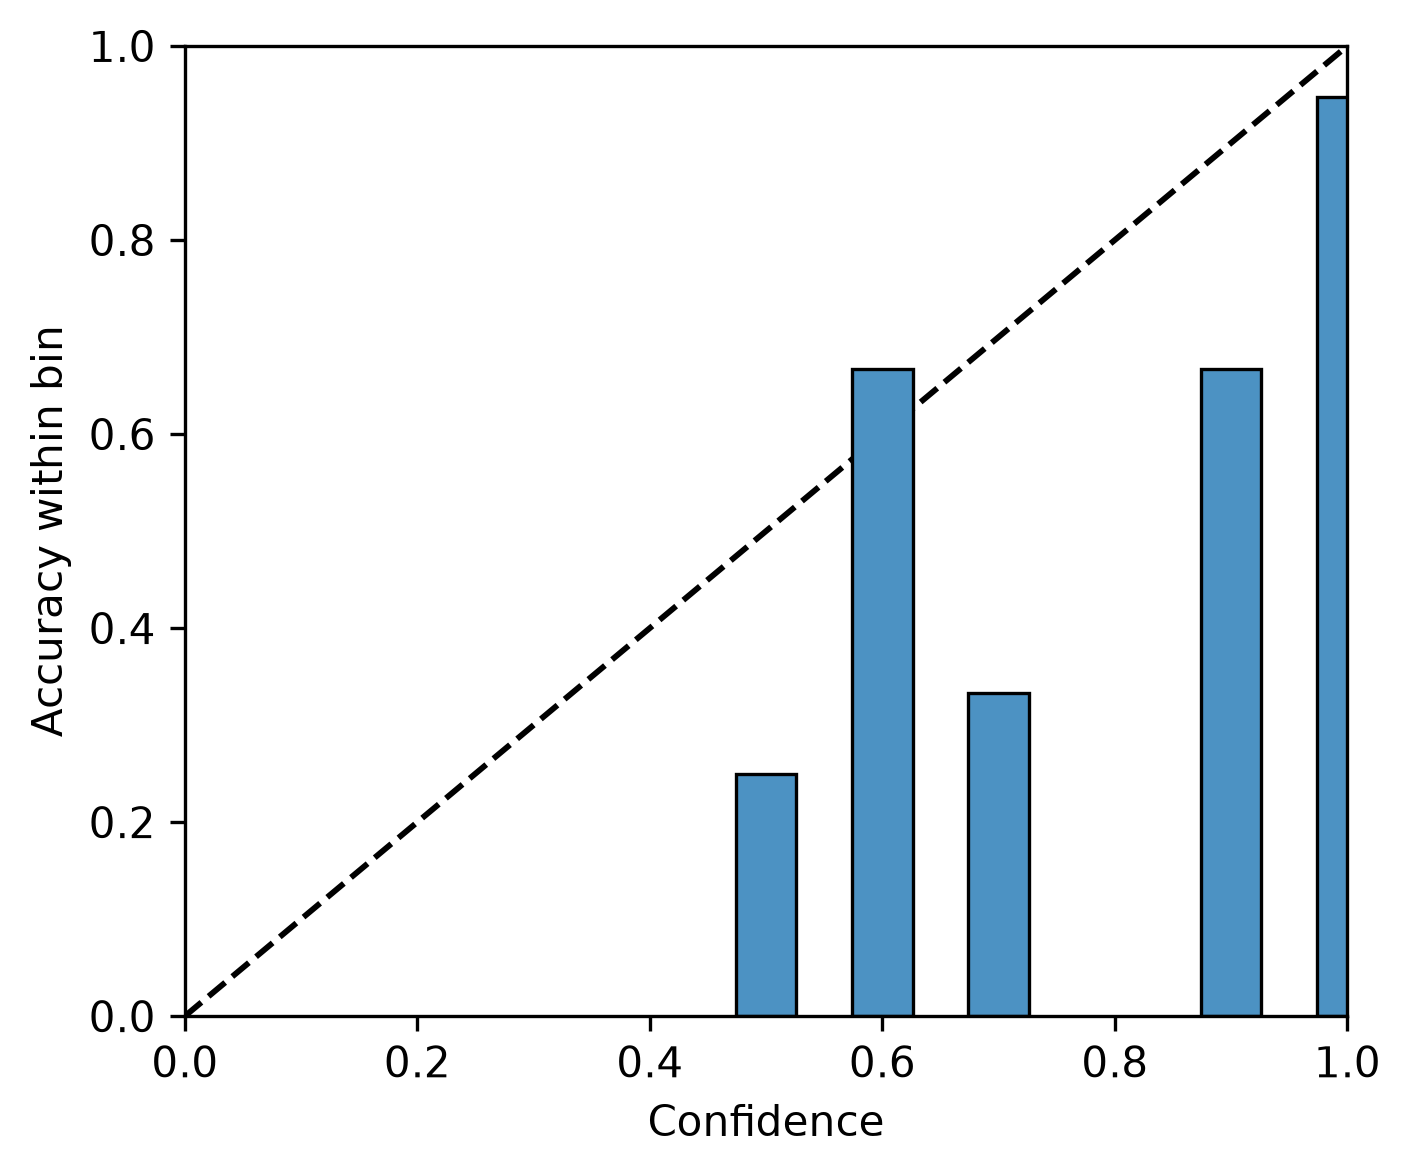
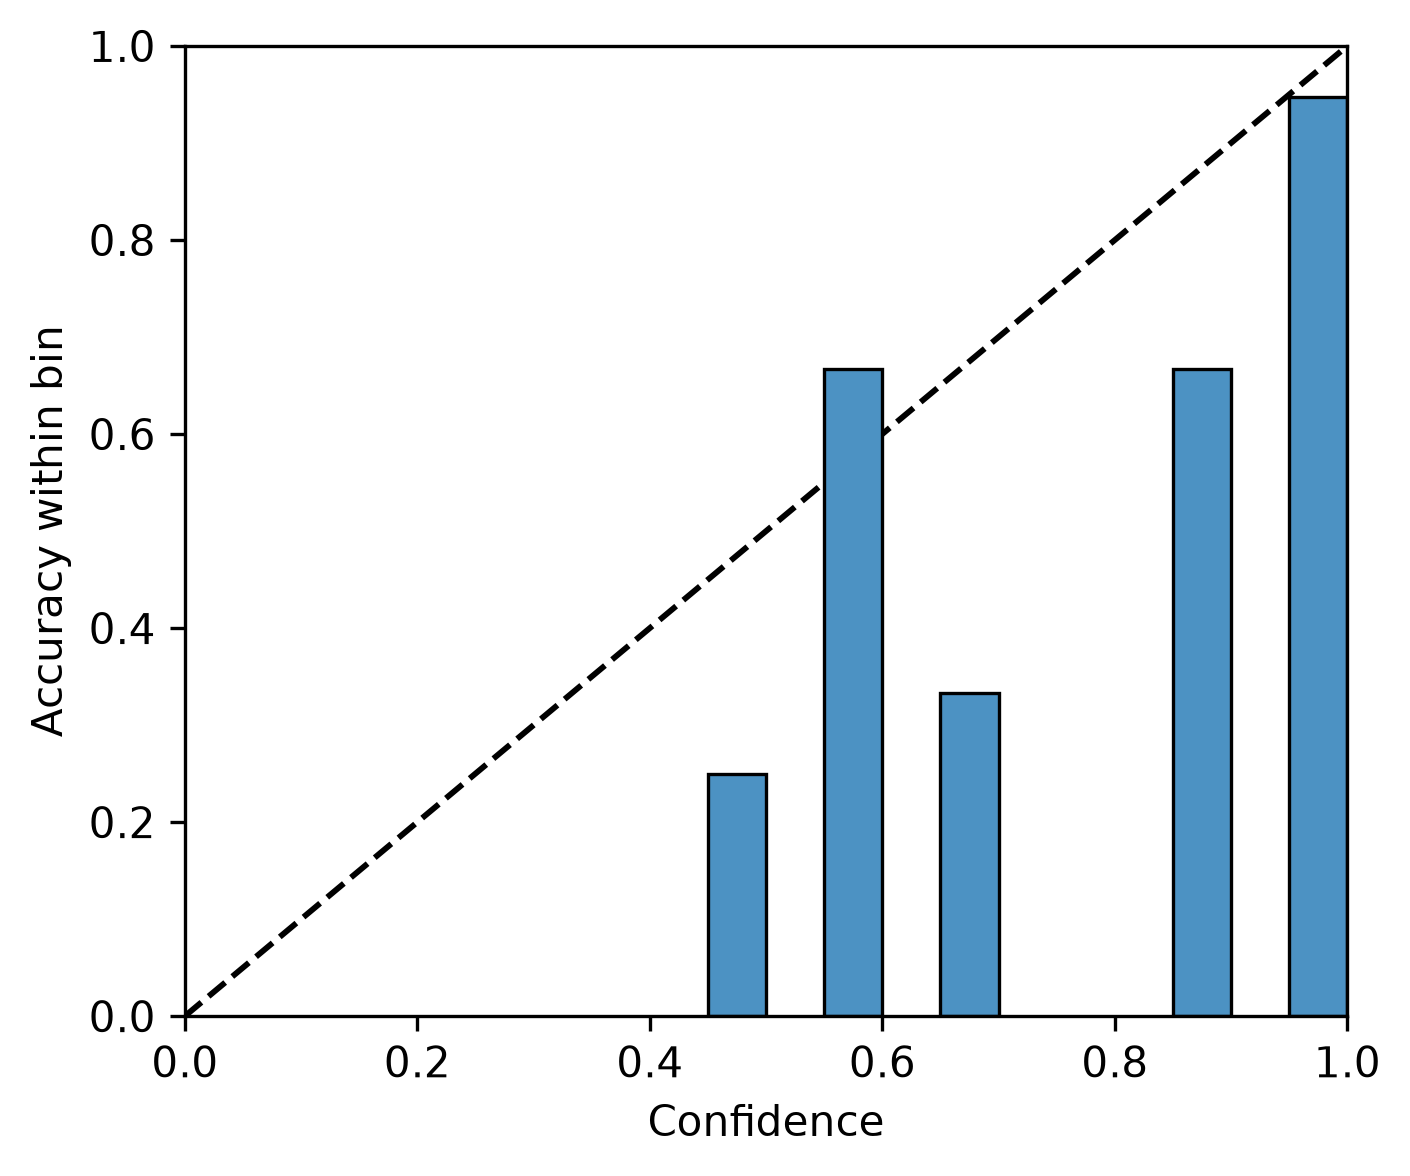
feat(visualize): update figures

Changed region(s): [[0.4993, 0.3061, 0.7489, 0.8878], [0.8113, 0.0612, 0.9362, 0.8878]]

diff --git a/evaluate_all_to_excel.py b/evaluate_all_to_excel.py
@@ -6,6 +6,8 @@ import json
 import re
 import subprocess
 import sys
+import math
+import statistics
 from collections import Counter
 from datetime import datetime
 from pathlib import Path
@@ -67,7 +69,18 @@ def parse_args():
     )
     parser.add_argument(
         "--time-flag",
-        help="Result filename suffix such as 0713. Auto-detected when omitted.",
+        help="Backward-compatible single result suffix; overrides --time-flags.",
+    )
+    parser.add_argument(
+        "--time-flags",
+        default="0713,0716,0718",
+        help="Comma-separated independent run suffixes (default: 0713,0716,0718).",
+    )
+    parser.add_argument(
+        "--interval",
+        choices=["std", "ci95"],
+        default="std",
+        help="Radius after ±: sample standard deviation (std) or 95%% CI half-width.",
     )
     parser.add_argument(
         "--output",
@@ -193,6 +206,8 @@ def run_evaluations(result_dir, time_flag, log_dir, task_exclusions):
                 "--time_flag",
                 time_flag,
             ]
+            for dataset, index in sorted(task_exclusions.get(task, set())):
+                command.extend(["--exclude-sample", f"{dataset}:{index}"])
             completed = subprocess.run(
                 command,
                 cwd=PROJECT_DIR,
@@ -222,6 +237,7 @@ def run_evaluations(result_dir, time_flag, log_dir, task_exclusions):
             results.append(
                 {
                     "task": task,
+                    "time_flag": time_flag,
                     "method": method,
                     "label": label,
                     "sample_size": effective_size,
@@ -238,6 +254,7 @@ def run_evaluations(result_dir, time_flag, log_dir, task_exclusions):
                     agent_results.append(
                         {
                             "task": task,
+                            "time_flag": time_flag,
                             "method": method,
                             "label": label,
                             "sample_size": effective_size,
@@ -245,6 +262,31 @@ def run_evaluations(result_dir, time_flag, log_dir, task_exclusions):
                         }
                     )
     return results, agent_results
+
+
+def aggregate_results(results, interval):
+    grouped = {}
+    for row in results:
+        grouped.setdefault((row["method"], row["task"]), []).append(row)
+    aggregated = []
+    for (method, task), rows in grouped.items():
+        accuracies = [row["accuracy"] for row in rows]
+        mean = statistics.mean(accuracies)
+        std = statistics.stdev(accuracies) if len(accuracies) > 1 else 0.0
+        radius = std if interval == "std" else 4.3026527299 * std / math.sqrt(len(rows))
+        aggregated.append(
+            {
+                "task": task,
+                "method": method,
+                "label": rows[0]["label"],
+                "sample_size": rows[0]["sample_size"],
+                "runs": len(rows),
+                "mean_accuracy": mean,
+                "radius": radius,
+                "run_accuracies": accuracies,
+            }
+        )
+    return aggregated
 
 
 def style_table(ws, header_row, min_col, max_col, max_row):
@@ -280,16 +322,20 @@ def autosize(ws, caps=None):
         ws.column_dimensions[letter].width = min(max(width + 2, 10), caps.get(letter, 45))
 
 
-def build_workbook(results, agent_results, result_dir, time_flag, output_path):
+def build_workbook(results, aggregated, agent_results, result_dir, time_flags, interval, output_path):
     wb = Workbook()
     summary = wb.active
     summary.title = "Paper Table"
     summary.sheet_view.showGridLines = False
     tasks = list(TASK_SIZES)
-    lookup = {(row["method"], row["task"]): row for row in results}
+    lookup = {(row["method"], row["task"]): row for row in aggregated}
     summary.append(["", "GSM8K", "SVAMP", "AQuA", "MultiArith", "AddSub", "SingleEq", "ARC-c", "StrategyQA", "Colored Objects", "Penguins"])
     for label, method in PAPER_ROWS:
-        values = [lookup[(method, task)]["accuracy"] * 100 for task in tasks]
+        values = [
+            f'{lookup[(method, task)]["mean_accuracy"] * 100:.2f} ± '
+            f'{lookup[(method, task)]["radius"] * 100:.2f}'
+            for task in tasks
+        ]
         summary.append([label, *values])
     summary.freeze_panes = "B2"
     summary.column_dimensions["A"].width = 28
@@ -298,7 +344,6 @@ def build_workbook(results, agent_results, result_dir, time_flag, output_path):
     summary.column_dimensions["J"].width = 17
     for row in summary.iter_rows(min_row=2, max_row=summary.max_row, min_col=2, max_col=11):
         for cell in row:
-            cell.number_format = "0.00"
             cell.alignment = Alignment(horizontal="center")
     for row in summary.iter_rows(min_row=1, max_row=summary.max_row, min_col=1, max_col=11):
         for cell in row:
@@ -316,6 +361,7 @@ def build_workbook(results, agent_results, result_dir, time_flag, output_path):
     detail.sheet_view.showGridLines = False
     headers = [
         "Dataset",
+        "Run",
         "Method",
         "Method Label",
         "Samples",
@@ -330,6 +376,7 @@ def build_workbook(results, agent_results, result_dir, time_flag, output_path):
         detail.append(
             [
                 row["task"],
+                row["time_flag"],
                 row["method"],
                 row["label"],
                 row["sample_size"],
@@ -343,19 +390,33 @@ def build_workbook(results, agent_results, result_dir, time_flag, output_path):
     style_table(detail, 1, 1, len(headers), detail.max_row)
     detail.freeze_panes = "A2"
     detail.auto_filter.ref = detail.dimensions
-    for row in detail.iter_rows(min_row=2, min_col=5, max_col=6):
+    for row in detail.iter_rows(min_row=2, min_col=6, max_col=7):
         for cell in row:
             cell.number_format = "0.00%"
-    autosize(detail, {"C": 28, "G": 60, "H": 55, "I": 80})
+    autosize(detail, {"D": 28, "H": 60, "I": 55, "J": 80})
+
+    aggregate = wb.create_sheet("Aggregate Results")
+    aggregate_headers = ["Dataset", "Method", "Method Label", "Samples", "Runs", "Mean Accuracy", "Radius", "Interval"]
+    aggregate.append(aggregate_headers)
+    for row in aggregated:
+        aggregate.append([row["task"], row["method"], row["label"], row["sample_size"], row["runs"], row["mean_accuracy"], row["radius"], interval])
+    style_table(aggregate, 1, 1, len(aggregate_headers), aggregate.max_row)
+    for row in aggregate.iter_rows(min_row=2, min_col=6, max_col=7):
+        for cell in row:
+            cell.number_format = "0.00%"
+    aggregate.freeze_panes = "A2"
+    aggregate.auto_filter.ref = aggregate.dimensions
+    autosize(aggregate, {"C": 28})
 
     agents = wb.create_sheet("Agent Details")
     agents.sheet_view.showGridLines = False
-    agent_headers = ["Dataset", "Method", "Method Label", "Samples", "Agent", "Accuracy", "SEM"]
+    agent_headers = ["Dataset", "Run", "Method", "Method Label", "Samples", "Agent", "Accuracy", "SEM"]
     agents.append(agent_headers)
     for row in agent_results:
         agents.append(
             [
                 row["task"],
+                row["time_flag"],
                 row["method"],
                 row["label"],
                 row["sample_size"],
@@ -367,7 +428,7 @@ def build_workbook(results, agent_results, result_dir, time_flag, output_path):
     style_table(agents, 1, 1, len(agent_headers), agents.max_row)
     agents.freeze_panes = "A2"
     agents.auto_filter.ref = agents.dimensions
-    for row in agents.iter_rows(min_row=2, min_col=6, max_col=7):
+    for row in agents.iter_rows(min_row=2, min_col=7, max_col=8):
         for cell in row:
             cell.number_format = "0.00%"
     autosize(agents, {"C": 28})
@@ -378,14 +439,15 @@ def build_workbook(results, agent_results, result_dir, time_flag, output_path):
     readme_rows = [
         ("Generated", datetime.now().astimezone().isoformat(timespec="seconds")),
         ("Result directory", str(result_dir)),
-        ("Time flag", time_flag),
+        ("Time flags", ", ".join(time_flags)),
+        ("Aggregation", f"Mean across {len(time_flags)} independent runs; ± radius uses {interval}."),
         ("Evaluator", str(PROJECT_DIR / "eval.py")),
         ("Evaluation count", len(results)),
         ("Source JSON count", len({row["source_file"] for row in results})),
         ("Majority", "Reuses each dataset's single_agent JSON; no separate generation file."),
         ("Accuracy", "Fraction of correctly evaluated examples."),
         ("SEM", "Population standard deviation divided by sqrt(number of examples), as implemented in eval.py."),
-        ("Paper Table", "Dataset header row plus method rows. Scores are 0-100 numeric values without percent formatting."),
+        ("Paper Table", "Dataset header row plus method rows. Each cell is mean ± radius on the 0-100 scale, without a percent sign."),
         ("Ours (w/o solution)", "Revision receives peer feedback but Stage-2 peer-solution dialogue is removed."),
     ]
     for item in readme_rows:
@@ -403,7 +465,7 @@ def build_workbook(results, agent_results, result_dir, time_flag, output_path):
 
 def verify_workbook(output_path, expected_results):
     wb = load_workbook(output_path, data_only=False, read_only=True)
-    required = {"Paper Table", "Evaluation Results", "Agent Details", "README"}
+    required = {"Paper Table", "Evaluation Results", "Aggregate Results", "Agent Details", "README"}
     if set(wb.sheetnames) != required:
         raise RuntimeError(f"Unexpected workbook sheets: {wb.sheetnames}")
     if wb["Evaluation Results"].max_row != expected_results + 1:
@@ -417,31 +479,47 @@ def verify_workbook(output_path, expected_results):
         raise RuntimeError("Paper table dataset header order verification failed")
     if paper["A2"].value != "Zero-shot CoT" or paper["A8"].value != "Ours (w/o solution)":
         raise RuntimeError("Paper table method labels verification failed")
-    if paper["B2"].value is None or paper["B2"].value <= 1:
-        raise RuntimeError("Paper table scores were not converted to the 0-100 scale")
-    if paper["B8"].value is None or paper["B8"].value <= 1:
-        raise RuntimeError("Ours (w/o solution) score is missing or not on the 0-100 scale")
+    if " ± " not in str(paper["B2"].value) or " ± " not in str(paper["B8"].value):
+        raise RuntimeError("Paper table cells are not formatted as mean ± radius")
     wb.close()
 
 
 def main():
     args = parse_args()
     result_dir = args.result_dir.resolve()
-    time_flag = args.time_flag or detect_time_flag(result_dir)
+    time_flags = [args.time_flag] if args.time_flag else [
+        value.strip() for value in args.time_flags.split(",") if value.strip()
+    ]
+    if not time_flags:
+        raise RuntimeError("No time flags selected")
+    if len(set(time_flags)) != len(time_flags):
+        raise RuntimeError(f"Duplicate time flags: {time_flags}")
+    flag_label = "-".join(time_flags)
     output_path = (
         args.output.resolve()
         if args.output
-        else result_dir / f"evaluation_{result_dir.name}_{time_flag}.xlsx"
+        else result_dir / f"evaluation_{result_dir.name}_{flag_label}.xlsx"
     )
     log_dir = (
-        args.log_dir.resolve() if args.log_dir else result_dir / "eval_logs" / time_flag
+        args.log_dir.resolve() if args.log_dir else result_dir / "eval_logs" / flag_label
     )
 
-    task_exclusions = validate_inputs(result_dir, time_flag)
-    results, agent_results = run_evaluations(
-        result_dir, time_flag, log_dir, task_exclusions
-    )
-    build_workbook(results, agent_results, result_dir, time_flag, output_path)
+    exclusions_by_flag = {
+        flag: validate_inputs(result_dir, flag) for flag in time_flags
+    }
+    shared_exclusions = {
+        task: set().union(*(exclusions_by_flag[flag].get(task, set()) for flag in time_flags))
+        for task in TASK_SIZES
+    }
+    results, agent_results = [], []
+    for flag in time_flags:
+        run_results, run_agents = run_evaluations(
+            result_dir, flag, log_dir, shared_exclusions
+        )
+        results.extend(run_results)
+        agent_results.extend(run_agents)
+    aggregated = aggregate_results(results, args.interval)
+    build_workbook(results, aggregated, agent_results, result_dir, time_flags, args.interval, output_path)
     verify_workbook(output_path, len(results))
     print(f"Excel report: {output_path}")
 

diff --git a/sample_filter.py b/sample_filter.py
@@ -88,9 +88,15 @@ def append_excluded_record_if_needed(
     return True
 
 
-def filter_evaluation_rows(rows):
-    included = [row for row in rows if not row.get("excluded", False)]
-    excluded = [row for row in rows if row.get("excluded", False)]
+def filter_evaluation_rows(rows, exclusions=None, dataset=None):
+    """Filter stored placeholders and optional dataset/index exclusions."""
+    exclusions = exclusions or set()
+    included, excluded = [], []
+    for one_based_index, row in enumerate(rows, start=1):
+        should_exclude = row.get("excluded", False) or (
+            dataset is not None and (dataset, one_based_index) in exclusions
+        )
+        (excluded if should_exclude else included).append(row)
     return included, excluded
 
 

diff --git a/visualize/plot_confidence_curse.py b/visualize/plot_confidence_curse.py
@@ -13,6 +13,7 @@ TASKS = ("GSM8K", "StrategyQA")
 DISPLAY_BINS = ("50", "60", "70", "80", "90", "100")
 CORRECT_COLOR = "#4C92C3"
 WRONG_COLOR = "#E15759"
+RELIABILITY_BAR_WIDTH = 0.05
 
 
 def parse_args():
@@ -145,7 +146,12 @@ def plot_dataset(dataset, output_dir, time_flag):
     plt.close(distribution_figure)
 
     reliability_figure, reliability_axis = plt.subplots(figsize=(5.0, 4.2))
-    confidence_positions = np.arange(5, 11) / 10
+    # Treat each verbalized confidence as the right edge of an equal-width bin.
+    # This keeps the 100% bar fully inside the [0, 1] axes instead of clipping
+    # half of a bar centered at x=1.0.
+    confidence_positions = (
+        np.arange(5, 11) / 10 - RELIABILITY_BAR_WIDTH / 2
+    )
     mask = ~np.isnan(dataset["bin_accuracy"])
     reliability_axis.plot(
         [0, 1],
@@ -158,7 +164,7 @@ def plot_dataset(dataset, output_dir, time_flag):
     reliability_axis.bar(
         confidence_positions[mask],
         dataset["bin_accuracy"][mask],
-        width=0.052,
+        width=RELIABILITY_BAR_WIDTH,
         color=CORRECT_COLOR,
         edgecolor="black",
         linewidth=0.8,

diff --git a/supplementary/mark_figure4_exclusions.py b/supplementary/mark_figure4_exclusions.py
@@ -25,6 +25,7 @@ def parse_args():
     )
     parser.add_argument("--task", default="StrategyQA")
     parser.add_argument("--index", type=int, default=385, help="1-based dataset index")
+    parser.add_argument("--time-flag", help="Only modify files with this timestamp suffix")
     parser.add_argument("--reason", default="DashScope data_inspection_failed")
     return parser.parse_args()
 
@@ -45,7 +46,11 @@ def main():
     if args.index < 1:
         raise ValueError("--index must be positive")
 
-    paths = sorted(args.result_root.glob(f"agent_num_*_review_rounds_*/{args.task}/*.json"))
+    pattern = f"{args.task}_*_{args.time_flag}.json" if args.time_flag else "*.json"
+    paths = sorted(
+        path for path in args.result_root.rglob(pattern)
+        if path.parent.name == args.task
+    )
     if not paths:
         raise FileNotFoundError(f"No {args.task} result files found under {args.result_root}")
 
@@ -63,7 +68,7 @@ def main():
         atomic_write(path, data)
         changed += 1
         print(f"MARKED: {path}")
-    print(f"Marked {changed} supplementary result file(s); main-table results were not scanned.")
+    print(f"Marked {changed} result file(s) under {args.result_root}.")
 
 
 if __name__ == "__main__":

diff --git a/eval.py b/eval.py
@@ -192,7 +192,9 @@ def evaluate_multi_agent(args):
 
     input_data = read_json(args.eval_file)
     assert len(input_data) == args.example_num
-    input_data, excluded_data = sample_filter.filter_evaluation_rows(input_data)
+    input_data, excluded_data = sample_filter.filter_evaluation_rows(
+        input_data, args.sample_exclusions, args.task
+    )
     effective_num = len(input_data)
     logging.info('evaluation samples: %d; excluded: %d', effective_num, len(excluded_data))
 
@@ -222,7 +224,9 @@ def evaluate_multi_agent(args):
 def evaluate_single_agent(args):
     input_data = read_json(args.eval_file)
     assert len(input_data) == args.example_num
-    input_data, excluded_data = sample_filter.filter_evaluation_rows(input_data)
+    input_data, excluded_data = sample_filter.filter_evaluation_rows(
+        input_data, args.sample_exclusions, args.task
+    )
     effective_num = len(input_data)
     logging.info('evaluation samples: %d; excluded: %d', effective_num, len(excluded_data))
     if not input_data:

diff --git a/params.py b/params.py
@@ -10,6 +10,7 @@ import argparse
 import os
 from datetime import datetime
 import sample_filter
+from llm_adapter import default_model
 
 TASK_FILE = {
     'GSM8K': 'GSM8K.jsonl',         # 1319      https://github.com/openai/grade-school-math/blob/master/grade_school_math/data/test.jsonl
@@ -44,7 +45,7 @@ def add_llm_args(args_parser):
     args_parser.add_argument('--base_url', type=str,
                              default=os.getenv('OPENAI_BASE_URL', 'https://api.openai.com/v1'))
     args_parser.add_argument('--model', type=str,
-                             default=os.getenv('OPENAI_MODEL', 'gpt-3.5-turbo-0613'))
+                             default=default_model())
     args_parser.add_argument('--enable_thinking', choices=['true', 'false'],
                              default=os.getenv('OPENAI_ENABLE_THINKING'))
     args_parser.add_argument('--openai_organization', type=str,
@@ -268,9 +269,11 @@ def eval_args():
                              choices=['single_agent', 'self_correction', 'majority', 'debate', 'feedback',
                                       'peer_review', 'ablation_solution'])
     args_parser.add_argument('--time_flag', type=str, default='1113')
+    sample_filter.add_sample_filter_args(args_parser)
 
     # parse
     args = args_parser.parse_args()
+    args = sample_filter.finalize_sample_filter_args(args, TASK_FILE)
     args.example_num = EXAMPLE_NUM[args.task]
     if args.method in ['majority', 'single_agent']:
         args.eval_file = os.path.join(os.path.join(args.eval_dir, args.task),